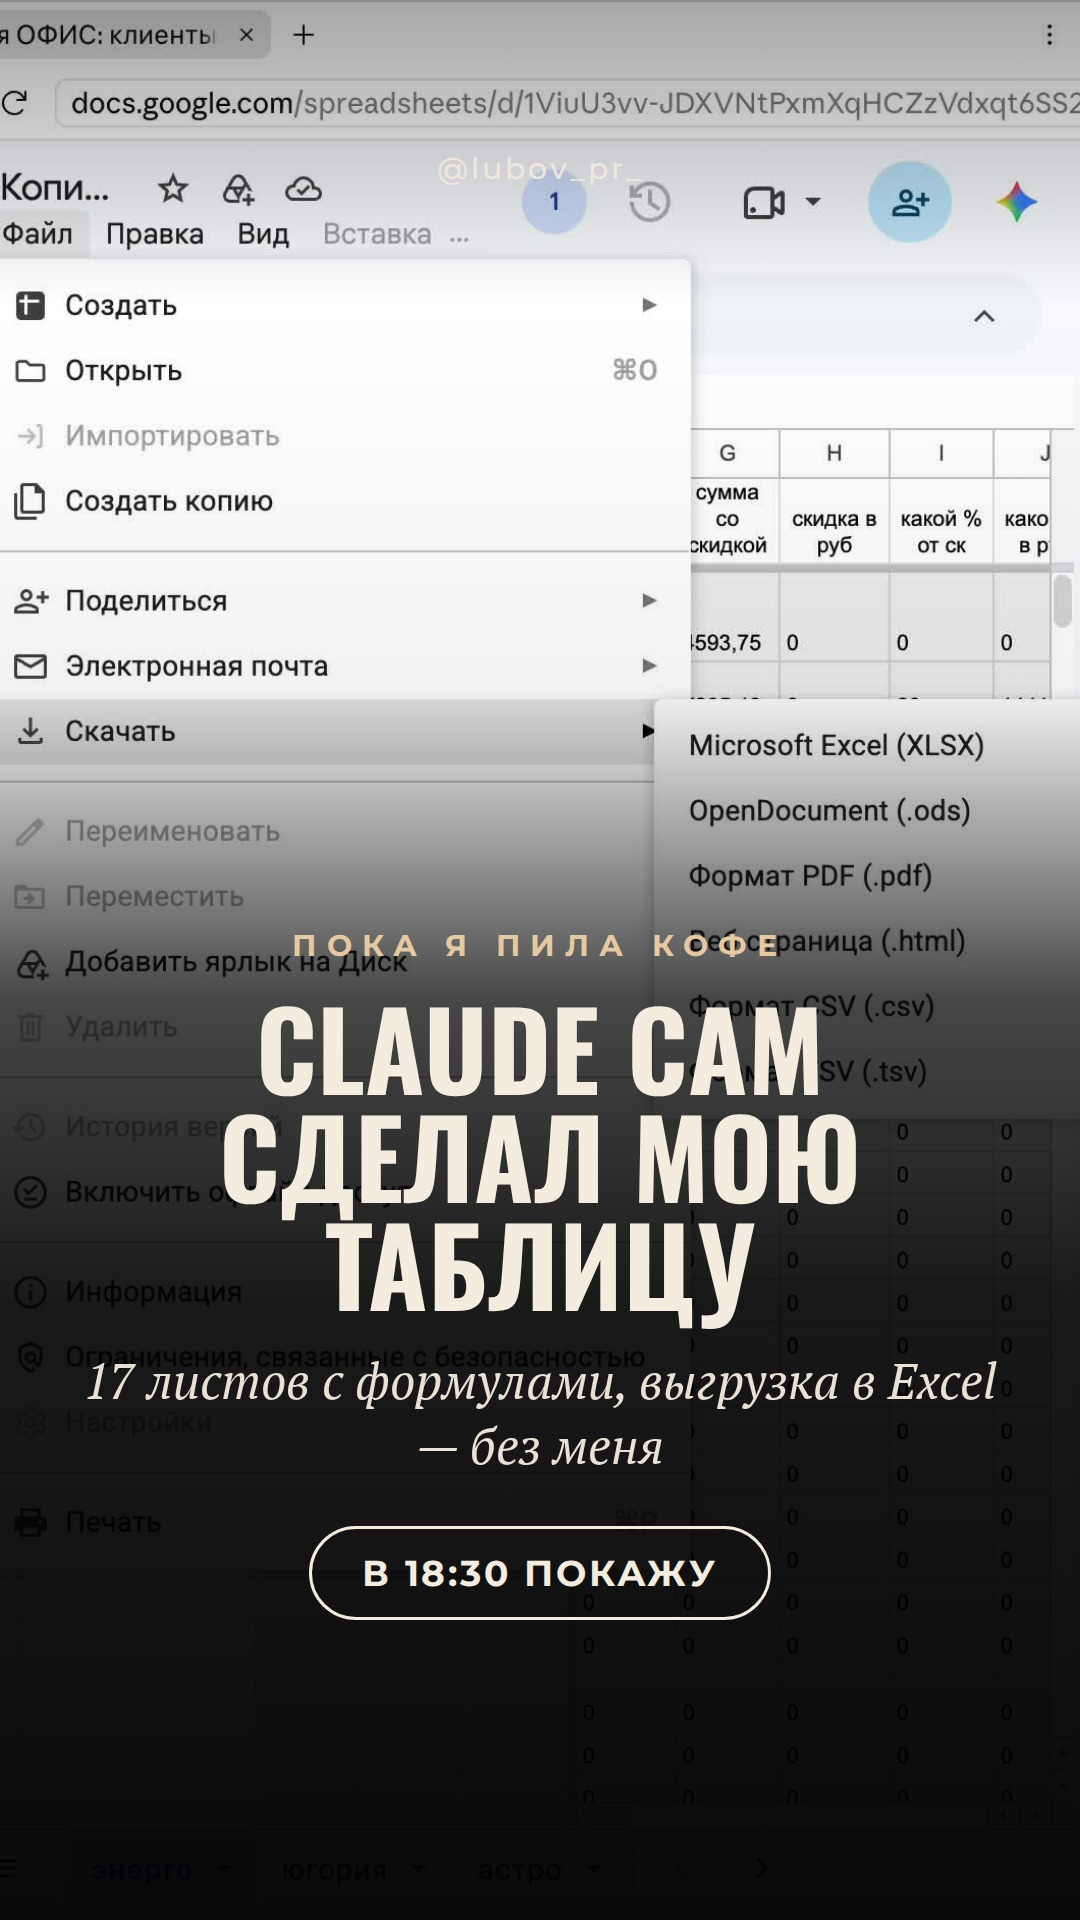
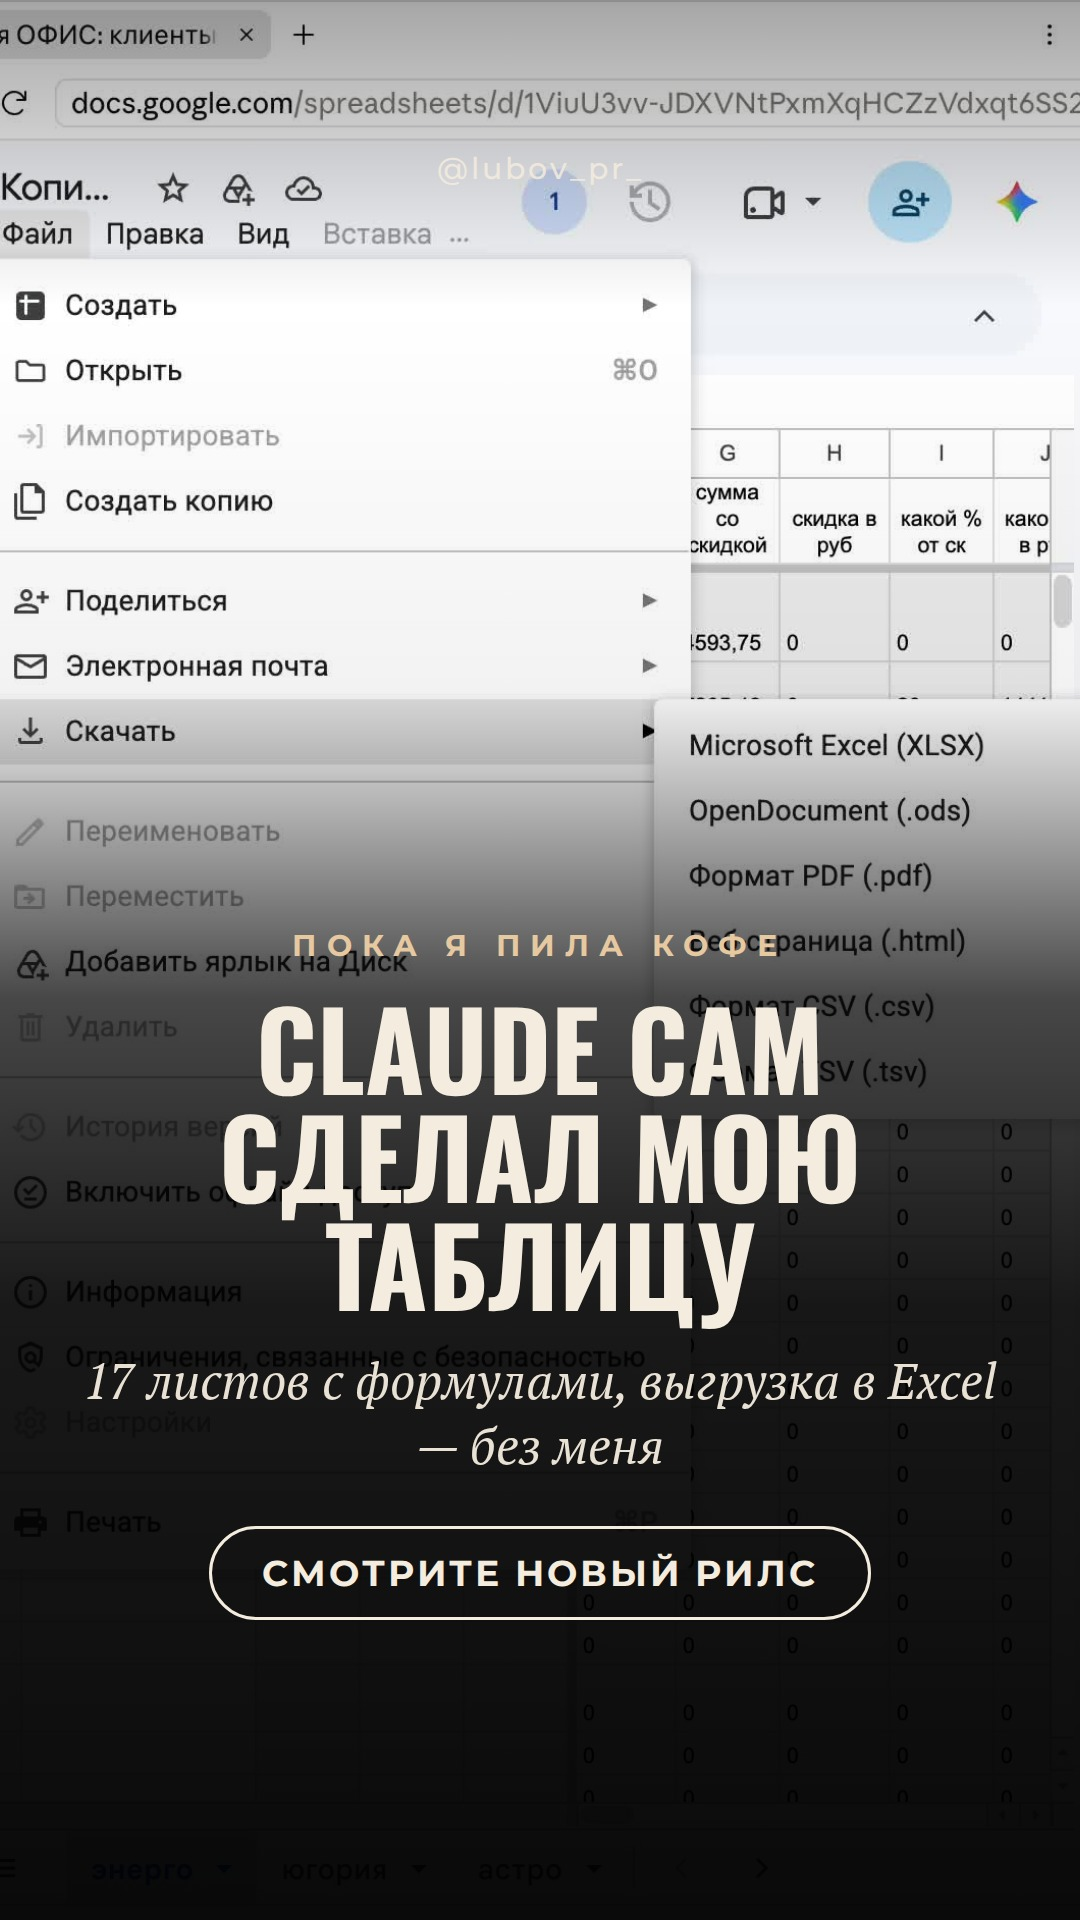
5.10: всё выложить сейчас

Changed region(s): [[0.2444, 0.7812, 0.7639, 0.8438], [0.1833, 0.8125, 0.2139, 0.8438]]

diff --git a/content/stories_2026-10-05b.py b/content/stories_2026-10-05b.py
@@ -1,7 +1,7 @@
 DAYS = [
  {'date': '2026-10-05', 'prefix': 'warm_q', 'pill': 'ОТВЕТЬТЕ В ДИРЕКТ', 'stories': [
   {'photo': ('lubov2_hat_smile.jpg', '50% top'), 'text': ('знакомо?', 'Заявка пришла в 23:00. Ответили утром', 'а клиент уже купил у того, кто ответил сразу. Сколько таких было у вас за месяц?'), 'pill': True}]},
- {'date': '2026-10-05', 'prefix': 'warm_tease', 'pill': 'В 18:30 ПОКАЖУ', 'stories': [
+ {'date': '2026-10-05', 'prefix': 'warm_tease', 'pill': 'СМОТРИТЕ НОВЫЙ РИЛС', 'stories': [
   {'photo': ('scr_1005_menu.jpg', 'center top'), 'text': ('пока я пила кофе', 'Claude сам сделал мою таблицу', '17 листов с формулами, выгрузка в Excel — без меня'), 'pill': True}]},
  {'date': '2026-10-05', 'prefix': 'warm_reel', 'pill': 'СМОТРИТЕ В ПРОФИЛЕ', 'stories': [
   {'photo': ('scr_1005_reelcover.jpg', 'center center'), 'text': ('', '', 'новый рилс: как Claude ведёт таблицы за предпринимателя'), 'pill': True}]},
